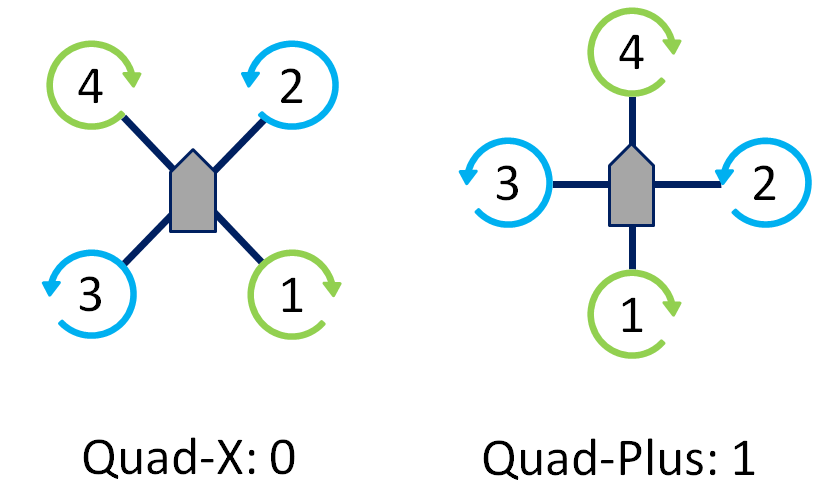
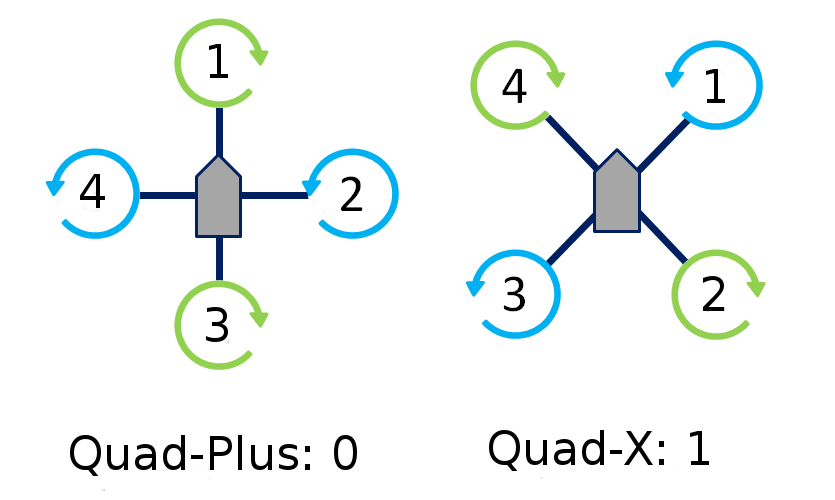
Changed mixer numbering to a normal clockwise pattern for quadx, quad+ and x8 types. Updated the hardware-setup doc with new images, also fixed mixer-value table for hardware-setup as it was incorrect. QuadX and quad+ tested on thor and work. X8 is UNTESTED.

diff --git a/include/mixer.h b/include/mixer.h
@@ -88,19 +88,19 @@ private:
     {M, M, M, M, NONE, NONE, NONE, NONE}, // output_type
 
     { 1.0f,  1.0f,  1.0f,  1.0f, 0.0f, 0.0f, 0.0f, 0.0f}, // F Mix
-    { 0.0f, -1.0f,  1.0f,  0.0f, 0.0f, 0.0f, 0.0f, 0.0f}, // X Mix
-    {-1.0f,  0.0f,  0.0f,  1.0f, 0.0f, 0.0f, 0.0f, 0.0f}, // Y Mix
-    {-1.0f,  1.0f,  1.0f, -1.0f, 0.0f, 0.0f, 0.0f, 0.0f}  // Z Mix
+    { 0.0f, -1.0f,  0.0f,  1.0f, 0.0f, 0.0f, 0.0f, 0.0f}, // X Mix
+    { 1.0f,  0.0f, -1.0f,  0.0f, 0.0f, 0.0f, 0.0f, 0.0f}, // Y Mix
+    {-1.0f,  1.0f, -1.0f,  1.0f, 0.0f, 0.0f, 0.0f, 0.0f}  // Z Mix
   };
 
   const mixer_t quadcopter_x_mixing =
   {
     {M, M, M, M, NONE, NONE, NONE, NONE}, // output_type
 
-    { 1.0f, 1.0f, 1.0f, 1.0f,  0.0f, 0.0f, 0.0f, 0.0f}, // F Mix
-    {-1.0f,-1.0f, 1.0f, 1.0f,  0.0f, 0.0f, 0.0f, 0.0f}, // X Mix
-    {-1.0f, 1.0f,-1.0f, 1.0f,  0.0f, 0.0f, 0.0f, 0.0f}, // Y Mix
-    {-1.0f, 1.0f, 1.0f,-1.0f,  0.0f, 0.0f, 0.0f, 0.0f}  // Z Mix
+    { 1.0f,  1.0f, 1.0f, 1.0f,  0.0f, 0.0f, 0.0f, 0.0f}, // F Mix
+    {-1.0f, -1.0f, 1.0f, 1.0f,  0.0f, 0.0f, 0.0f, 0.0f}, // X Mix
+    { 1.0f, -1.0f,-1.0f, 1.0f,  0.0f, 0.0f, 0.0f, 0.0f}, // Y Mix
+    { 1.0f, -1.0f, 1.0f,-1.0f,  0.0f, 0.0f, 0.0f, 0.0f}  // Z Mix
   };
 
   const mixer_t fixedwing_mixing =
@@ -116,10 +116,11 @@ private:
   const mixer_t X8_mixing =
   {
     {M, M, M, M, M, M, M, M},
+
     { 1.0f,   1.0f,    1.0f,    1.0f,    1.0f,    1.0f,   1.0f,  1.0f}, // F Mix
-    {-1.0f,   1.0f,    1.0f,   -1.0f,    1.0f,   -1.0f,  -1.0f,  1.0f}, // X Mix
-    { 1.0f,   1.0f,   -1.0f,   -1.0f,    1.0f,    1.0f,  -1.0f, -1.0f}, // Y Mix
-    { 1.0f,  -1.0f,    1.0f,   -1.0f,    1.0f,   -1.0f,   1.0f, -1.0f}  // Z Mix
+    {-1.0f,  -1.0f,   -1.0f,   -1.0f,    1.0f,    1.0f,   1.0f,  1.0f}, // X Mix
+    { 1.0f,   1.0f,   -1.0f,   -1.0f,   -1.0f,   -1.0f,   1.0f,  1.0f}, // Y Mix
+    { 1.0f,  -1.0f,   -1.0f,    1.0f,    1.0f,   -1.0f,  -1.0f,  1.0f}  // Z Mix
   };
 
   const mixer_t Y6_mixing =

diff --git a/docs/user-guide/hardware-setup.md b/docs/user-guide/hardware-setup.md
@@ -97,8 +97,8 @@ We currently support 5 mixer types.  The desired mixer can be chosen by setting 
 
 | mixer | value |
 |-----------------|-------|
-| Quadcopter-X | 0 |
-| Quadctoper-Plus | 1 |
+| Quadctoper-Plus | 0 |
+| Quadcopter-X | 1 |
 | Y6 | 2 |
 | X8 | 3 |
 | Fixed Wing | 4 |
